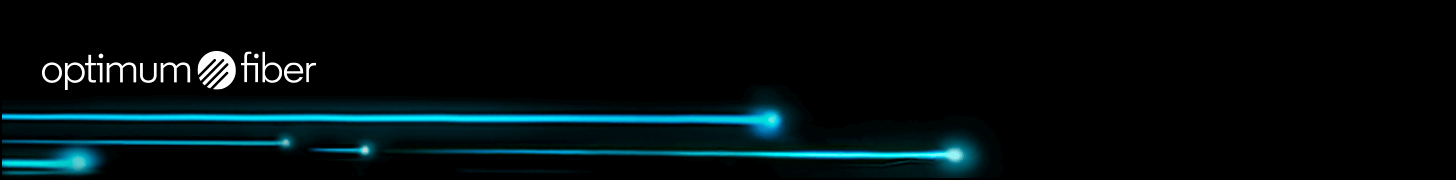
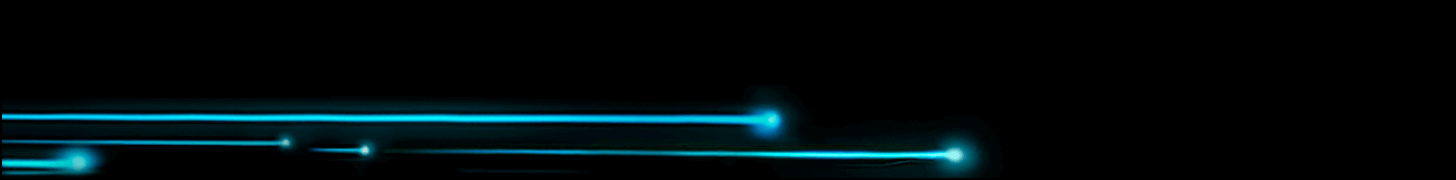
Altice Update

Changed region(s): [[0.0309, 0.2778, 0.2163, 0.5]]

diff --git a/A/Altice/2022/01_January/ads/OPT_Fiber_1P_29(300 Mbps)/728x90/728x90.html b/A/Altice/2022/01_January/ads/OPT_Fiber_1P_29(300 Mbps)/728x90/728x90.html
@@ -154,7 +154,7 @@
 <script type="text/javascript">
 amo.registerClick("clickUrl", "https://www.altice.com");
 amo.registerAttribute("ctaText", "TEXT", "Shop now");
-amo.registerAttribute("frameText1", "TEXT", "<div class='title' style='top: 26px;left: 174px;font-size: 18.6px;'>Go faster with our new 100% Fiber network!</div>");
+amo.registerAttribute("frameText1", "TEXT", "<div class='title' style='top: 25px;font-size: 19px;'>Go faster with our new 100% Fiber network!</div>");
 amo.registerAttribute("frameText21", "TEXT", "<div style='top: 15px;left: 137px;font-size: 26px;line-height: 0.92;'>300 Mbps<br>Fiber Internet</div>");
 amo.registerAttribute("frameText22", "TEXT", "<div style='top: 9px;left: 322px;width: 500px;line-height: 1;'><font style='font-size: 59px;letter-spacing: 0px;padding-right: 2px;'>$29</font><font style='margin-left: 1px;font-size: 10px;display: inline-block;vertical-align: 24px;line-height: 1;'>99/<br>mo.</font></div>");
 amo.registerAttribute("frameText23", "TEXT", "<div class='disclaimer'>w/Auto Pay & Paperless Bill plus taxes & equip. charges.</div>");
@@ -533,8 +533,7 @@ amo.registerAttribute("frameText52", "TEXT", "<div style='top: 8px;left: 316px;w
           // fn.beams.animate();
           // gsap.to('#beam1', 0.2, {autoAlpha: 0, delay: 1.4})
           gsap.timeline(timelineProps)
-            .to('#frameAsset1', destinationValues)
-            .to('#frameText1', {autoAlpha:1, delay:0.5})
+            .to('#frameAsset1, #frameText1', destinationValues)
             // .to('#frameText12', destinationValues)
             gsap.timeline(timelineProps)
             .to(frame, (flag==true?{}:{delay: (duration - timelineProps.defaults.duration), autoAlpha:0, onComplete: animate.nextFrame}));

diff --git a/A/Altice/2022/01_January/ads/OPT_Fiber_1P_29(300 Mbps)/160x600/160x600.html b/A/Altice/2022/01_January/ads/OPT_Fiber_1P_29(300 Mbps)/160x600/160x600.html
@@ -179,7 +179,6 @@ amo.registerAttribute("frameText53", "TEXT", "<div class='disclaimer'>w/Auto Pay
       name: 'frame1',
       assets: {
         frameAsset1: "160x600_Generic_Fiber_BRD.mp4",
-        frameAsset12: "160x600_OPT_1P_2999_Month_300Mbps_Img_F1_Logo_Optimum_Fiber.png",
       },
       style: {
         
@@ -298,7 +297,7 @@ amo.registerAttribute("frameText53", "TEXT", "<div class='disclaimer'>w/Auto Pay
     <div id="frame1" style="background-color:#24d9c3;">
       <!-- <div id="frameAsset1" class="asset" data-image="frameAsset1"></div> -->
       <div id="frameAsset1"><video muted playsinline autoplay></video></div>
-      <div id="frameAsset12" class="asset" data-image="frameAsset12"></div>
+      <!-- <div id="frameAsset12" class="asset" data-image="frameAsset12"></div> -->
       <!-- <div id="videoOverlay" style="background-color:rgba(0,0,0,0.2);"></div> -->
       <div id="frameText1" class="text frameText">!{frameText1}</div>
       <!-- <div id="frameText12" class="text frameText">!{frameText12}</div> -->

diff --git a/A/Altice/2022/01_January/ads/OPT_Fiber_1P_29(300 Mbps)/300x600/300x600.html b/A/Altice/2022/01_January/ads/OPT_Fiber_1P_29(300 Mbps)/300x600/300x600.html
@@ -177,7 +177,6 @@ amo.registerAttribute("frameText53", "TEXT", "<div class='disclaimer'>w/Auto Pay
       name: 'frame1',
       assets: {
         frameAsset1: "300x600_Generic_Fiber_BRD.mp4",
-        frameAsset12: "300x600_OPT_1P_2999_Month_300Mbps_Img_F1_Logo_Optimum_Fiber.png",
       },
       style: {
         
@@ -296,7 +295,7 @@ amo.registerAttribute("frameText53", "TEXT", "<div class='disclaimer'>w/Auto Pay
     <div id="frame1" style="background-color:#24d9c3;">
       <!-- <div id="frameAsset1" class="asset" data-image="frameAsset1"></div> -->
       <div id="frameAsset1"><video muted playsinline autoplay></video></div>
-      <div id="frameAsset12" class="asset" data-image="frameAsset12"></div>
+      <!-- <div id="frameAsset12" class="asset" data-image="frameAsset12"></div> -->
       <!-- <div id="videoOverlay" style="background-color:rgba(0,0,0,0.2);"></div> -->
       <div id="frameText1" class="text frameText">!{frameText1}</div>
       <!-- <div id="frameText12" class="text frameText">!{frameText12}</div> -->
